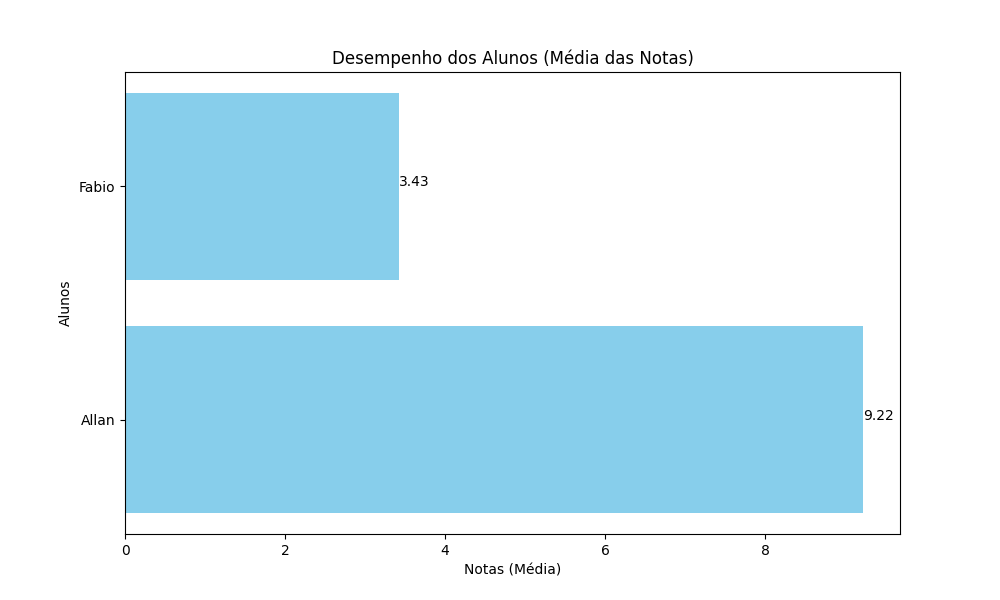
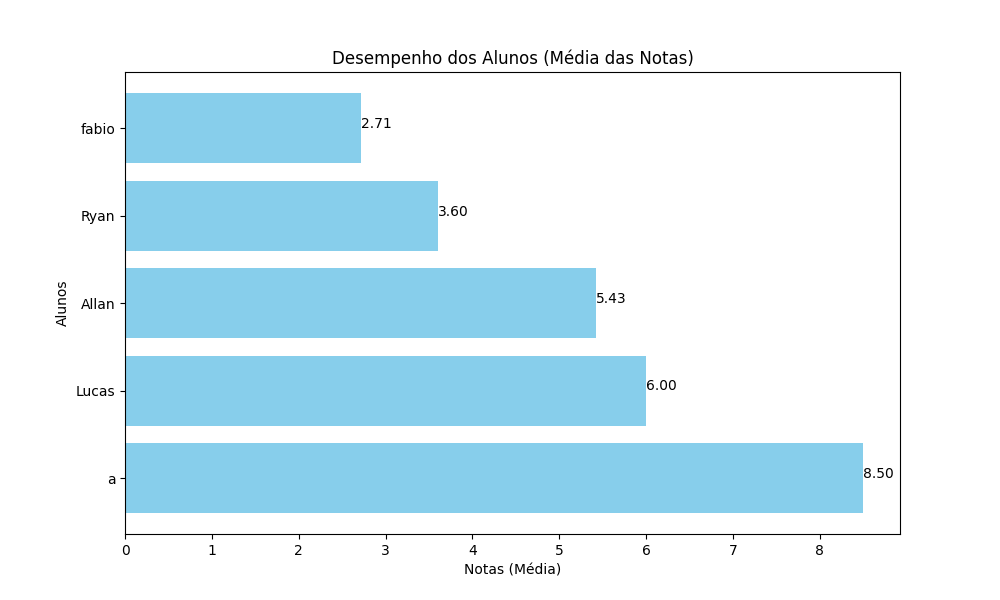
...

diff --git a/templates/gerenciar_curso.html b/templates/gerenciar_curso.html
@@ -7,6 +7,38 @@
     <link rel="icon" href="{{ url_for('static', filename='img/C2W.png') }}">
     <link rel="stylesheet" href="https://maxcdn.bootstrapcdn.com/bootstrap/4.5.2/css/bootstrap.min.css">
     <link rel="stylesheet" href="{{ url_for('static', filename='CSS/gerenciar_cursos.css') }}">
+    <style>
+        .btn-sm {
+            width: 100px;
+        }
+        .btn-group {
+            display: flex;
+            gap: 10px;
+        }
+        .action-buttons {
+            justify-content: center;
+        }
+        table thead th {
+            text-align: center;
+        }
+        table tbody td {
+            vertical-align: middle;
+            text-align: center;
+        }
+        .btn-container {
+            display: flex;
+            justify-content: flex-start;
+            gap: 15px;
+        }
+        .container h2 {
+            text-align: center;
+            margin-bottom: 30px;
+        }
+        .alert {
+            margin-bottom: 20px;
+            text-align: center;
+        }
+    </style>
 </head>
 <body>
     <div class="container mt-5">
@@ -37,19 +69,22 @@
                     <td>{{ curso['nome'] }}</td>
                     <td>{{ curso['descricao'] }}</td>
                     <td>
-                        <a href="/dashboard_admin/editar_curso/{{curso['id']}}" class="btn btn-warning btn-sm">Editar</a>
-                        <a href="/dashboard_admin/excluir_curso/{{curso['id']}}" class="btn btn-danger btn-sm" onclick="return confirm('Tem certeza que deseja excluir este curso?');">Excluir</a>
+                        <div class="btn-group action-buttons">
+                            <a href="/dashboard_admin/editar_curso/{{curso['id']}}" class="btn btn-warning btn-sm">Editar</a>
+                            <a href="/dashboard_admin/excluir_curso/{{curso['id']}}" class="btn btn-danger btn-sm" onclick="return confirm('Tem certeza que deseja excluir este curso?');">Excluir</a>
+                        </div>
                     </td>
                 </tr>
                 {% endfor %}
             </tbody>
         </table>
-        
-        <a href="{{ url_for('admin.criar_curso') }}" class="btn btn-primary mt-3">Adicionar Novo Curso</a>
-        <a href="{{ url_for('admin.dashboard_admin') }}" class="btn btn-secondary mt-3 ml-2">Voltar ao Dashboard</a>
+
+        <div class="btn-container mt-4">
+            <a href="{{ url_for('admin.criar_curso') }}" class="btn btn-primary">Adicionar Novo Curso</a>
+            <a href="{{ url_for('admin.dashboard_admin') }}" class="btn btn-secondary">Voltar ao Dashboard</a>
+        </div>
     </div>
 
-    <!-- Bootstrap JS -->
     <script src="https://code.jquery.com/jquery-3.5.1.slim.min.js"></script>
     <script src="https://cdn.jsdelivr.net/npm/bootstrap@4.5.2/dist/js/bootstrap.bundle.min.js"></script>
 </body>

diff --git a/routes/teacher_routes.py b/routes/teacher_routes.py
@@ -5,7 +5,7 @@ from werkzeug.utils import secure_filename
 from models import (
     find_user_by_id, criar_aula, get_cursos,get_modulos_by_curso_id,
     get_respostas_by_aula, get_progresso_by_aula, get_alunos,get_perguntas_by_id,
-    Adicionar_nota, resp_aluno, update_nota_resposta, get_student_scores,get_db, criar_modulos, get_aulas_por_modulo, get_student_scores_by_module
+    resp_aluno, update_nota_resposta, get_student_scores,get_db, criar_modulos, get_aulas_por_modulo, get_student_scores_by_module
 )
 from utils import (
     generate_performance_plot, kmeans_clustering,
@@ -44,17 +44,13 @@ def dashboard_professor():
             if nota is not None:
                 alunos_dict[nome]['total_notas'] += nota
                 alunos_dict[nome]['num_notas'] += 1
-            else:
-                alunos_dict[nome]['total_notas'] = 0
-                alunos_dict[nome]['num_notas'] = 0
+
         alunos_media = []
         for nome, data in alunos_dict.items():
-            if data['num_notas'] == 0:
-                alunos_media.append({'nome': nome, 'media': 0})
-            else:
-                media = data['total_notas'] / data['num_notas']
-                alunos_media.append({'nome': nome, 'media': media})
-        alunos_media = sorted(alunos_media, key=lambda x: x['media'] if isinstance(x['media'], float) else 0, reverse=True)
+            media = data['total_notas'] / data['num_notas'] if data['num_notas'] > 0 else None
+            alunos_media.append({'nome': nome, 'media': media or "Sem respostas"})
+        alunos_media = sorted(alunos_media, key=lambda x: x['media'] if isinstance(x['media'], float) else -1, reverse=True)
+
 
         return render_template(
             'dashboard_professor.html',
@@ -194,12 +190,21 @@ def ver_feedbacks():
                             print([(id,nota) for id,nota in notas_por_aula.items()])
                             notas_por_curso[curso_nome][modulo_nome].append(nota)
 
-            medias_por_aula = {titulo_aula: (sum(notas) / len(notas)) for titulo_aula,notas in notas_por_aula.items()}
-            print(f"medias por aula: {medias_por_aula}")
-            medias_por_curso = {
-                curso: {modulo: (sum(notas) / len(notas)) if notas else 0 for modulo, notas in modulos.items()}
-                for curso, modulos in notas_por_curso.items()
-            }
+                            medias_por_aula = {
+                                titulo_aula: (sum([n for n in notas if n is not None]) / len([n for n in notas if n is not None]))
+                                if any(notas) else 0
+                                for titulo_aula, notas in notas_por_aula.items()
+                            }
+
+                    medias_por_curso = {
+                        curso: {
+                            modulo: (sum([n for n in notas if n is not None]) / len([n for n in notas if n is not None]))
+                            if any(notas) else 0
+                            for modulo, notas in modulos.items()
+                        }
+                        for curso, modulos in notas_por_curso.items()
+                    }
+
 
             alunos_data = defaultdict(lambda: {'historico': [], 'id': None})
             for aluno_id, nome, nota, progresso, aula in alunos_scores:
@@ -260,7 +265,8 @@ def gerar_feedback_textual(medias_por_aula, medias_por_topico, previsoes, progre
                 if isinstance(media, (int, float)):
                     feedback.append(f"Aula {aula}: Média {media:.2f}")
                 else:
-                    feedback.append(f"Aula {aula}: Média inválida")
+                    feedback.append(f"Aula {aula}: Sem respostas suficientes")
+
 
         if medias_por_topico:
             feedback.append("\nMédias por Tópico:")

diff --git a/routes/admin_routes.py b/routes/admin_routes.py
@@ -73,7 +73,7 @@ def gerenciar_usuarios():
 
     try:
         db = get_db()
-        usuarios = db.execute('SELECT id, nome, email, tipo FROM usuarios').fetchall()
+        usuarios = db.execute('SELECT id, nome, email, tipo FROM usuarios where tipo != "admin"').fetchall()
         usuarios = [dict(id=user[0], nome=user[1], email=user[2], tipo=user[3]) for user in usuarios]
     except sqlite3.Error as e:
         print(f"Erro ao buscar usuários: {e}")
@@ -109,7 +109,7 @@ def excluir_usuario(user_id):
 
     flash("Usuário excluído com sucesso.")
     return redirect(url_for('admin.gerenciar_usuarios'))
-
+@admin_bp.route('/dashboard_admin/editar_curso/<int:curso_id>', methods=['POST',"GET"])
 def editar_curso(curso_id):
     if request.method == "POST":
         novo_nome = request.form["nome"]

diff --git a/utils.py b/utils.py
@@ -121,8 +121,14 @@ def generate_performance_plot(alunos_data, previsoes):
     cores = plt.cm.viridis(np.linspace(0, 1, len(alunos_data)))
 
     max_aulas = 0
-
+    notas = [
+        nota if nota is not None else 0
+        for aluno, dados in alunos_data.items()
+        for entry in dados['historico']
+        for nota in [entry['nota']]
+    ]
     for i, (nome, dados) in enumerate(alunos_data.items()):
+        
         notas = [entry['nota'] for entry in dados['historico']]
         max_aulas = max(max_aulas, len(notas))
         cor_aluno = cores[i]

diff --git a/routes/student_routes.py b/routes/student_routes.py
@@ -116,7 +116,7 @@ def concluir_aula(aula_id):
     else:
         flash("Aula já foi concluída anteriormente.", "info")
     
-    return redirect(url_for('student.dashboard_aluno'))
+    return redirect(url_for('student.ver_curso'))
 
 @student_bp.route('/responder_atividade/<int:aula_id>', methods=["POST"])
 def responder_atividade(aula_id):
